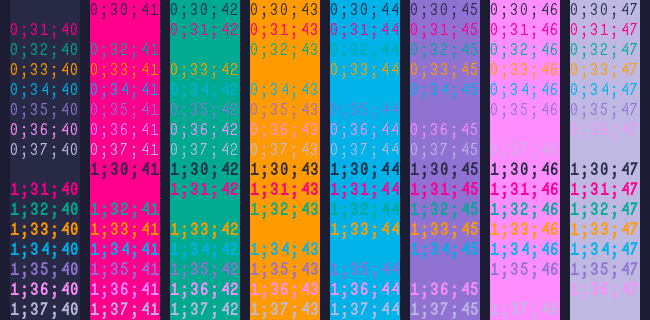
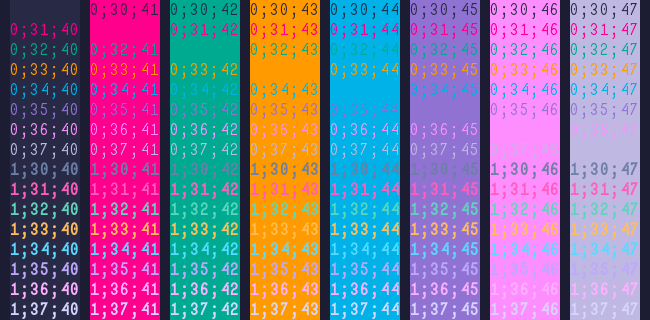
brights

diff --git a/bright.md b/bright.md
@@ -1,0 +1,8 @@
+| bright-black        | ![#9570b4](https://via.placeholder.com/15/9570b4/000000?text=+) `#9570b4` | ![#63729b](https://via.placeholder.com/15/63729b/000000?text=+) `#63729b` |
+| bright-red          | ![#fd30a0](https://via.placeholder.com/15/fd30a0/000000?text=+) `#fd30a0` | ![#ff57b5](https://via.placeholder.com/15/ff57b5/000000?text=+) `#ff57b5` |
+| bright-green        | ![#30c3b4](https://via.placeholder.com/15/30c3b4/000000?text=+) `#30c3b4` | ![#57cdb4](https://via.placeholder.com/15/57cdb4/000000?text=+) `#57cdb4` |
+| bright-yellow       | ![#ff9730](https://via.placeholder.com/15/ff9730/000000?text=+) `#ff9730` | ![#ffb857](https://via.placeholder.com/15/ffb857/000000?text=+) `#ffb857` |
+| bright-blue         | ![#3085ff](https://via.placeholder.com/15/3085ff/000000?text=+) `#3085ff` | ![#57d1ff](https://via.placeholder.com/15/57d1ff/000000?text=+) `#57d1ff` |
+| bright-magenta      | ![#b130cb](https://via.placeholder.com/15/b130cb/000000?text=+) `#b130cb` | ![#b79dfa](https://via.placeholder.com/15/b79dfa/000000?text=+) `#b79dfa` |
+| bright-cyan         | ![#ff6eef](https://via.placeholder.com/15/ff6eef/000000?text=+) `#ff6eef` | ![#ffa6ff](https://via.placeholder.com/15/ffa6ff/000000?text=+) `#ffa6ff` |
+| bright-white        | ![#e7ace3](https://via.placeholder.com/15/e7ace3/000000?text=+) `#e7ace3` | ![#d3cdff](https://via.placeholder.com/15/d3cdff/000000?text=+) `#d3cdff` |
